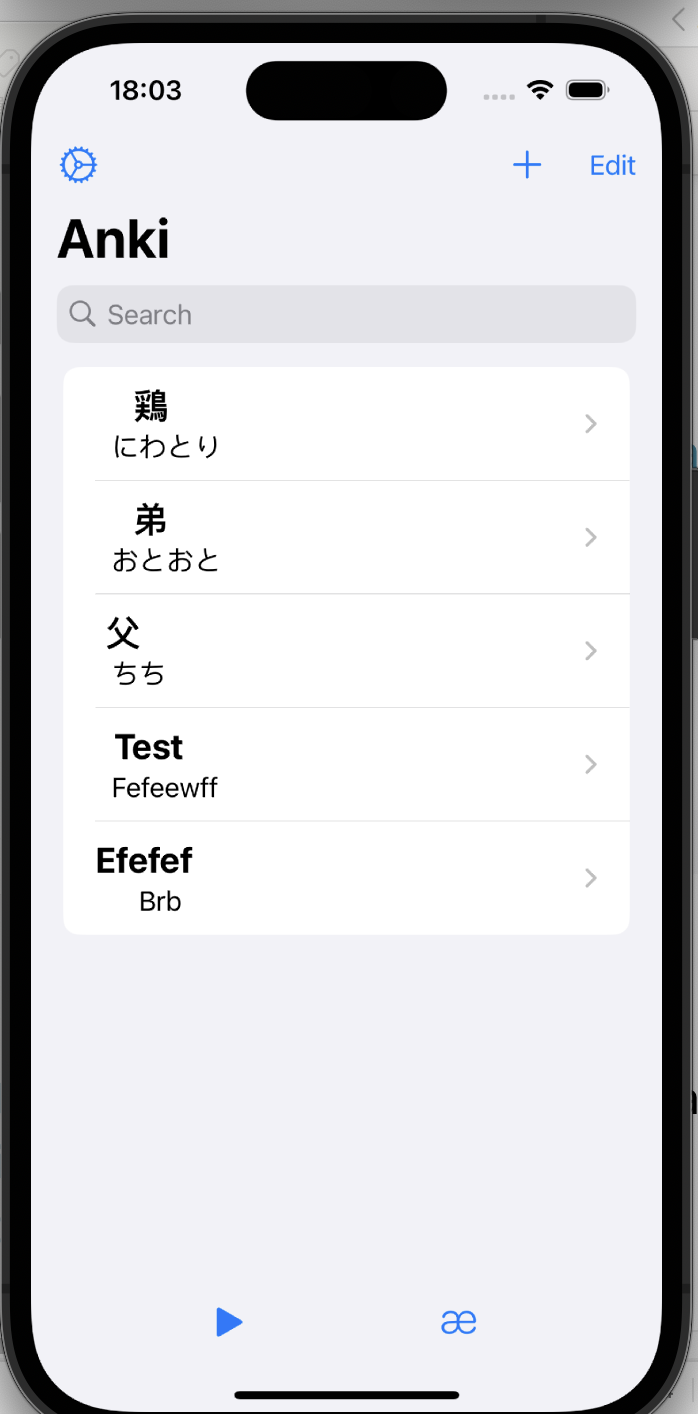
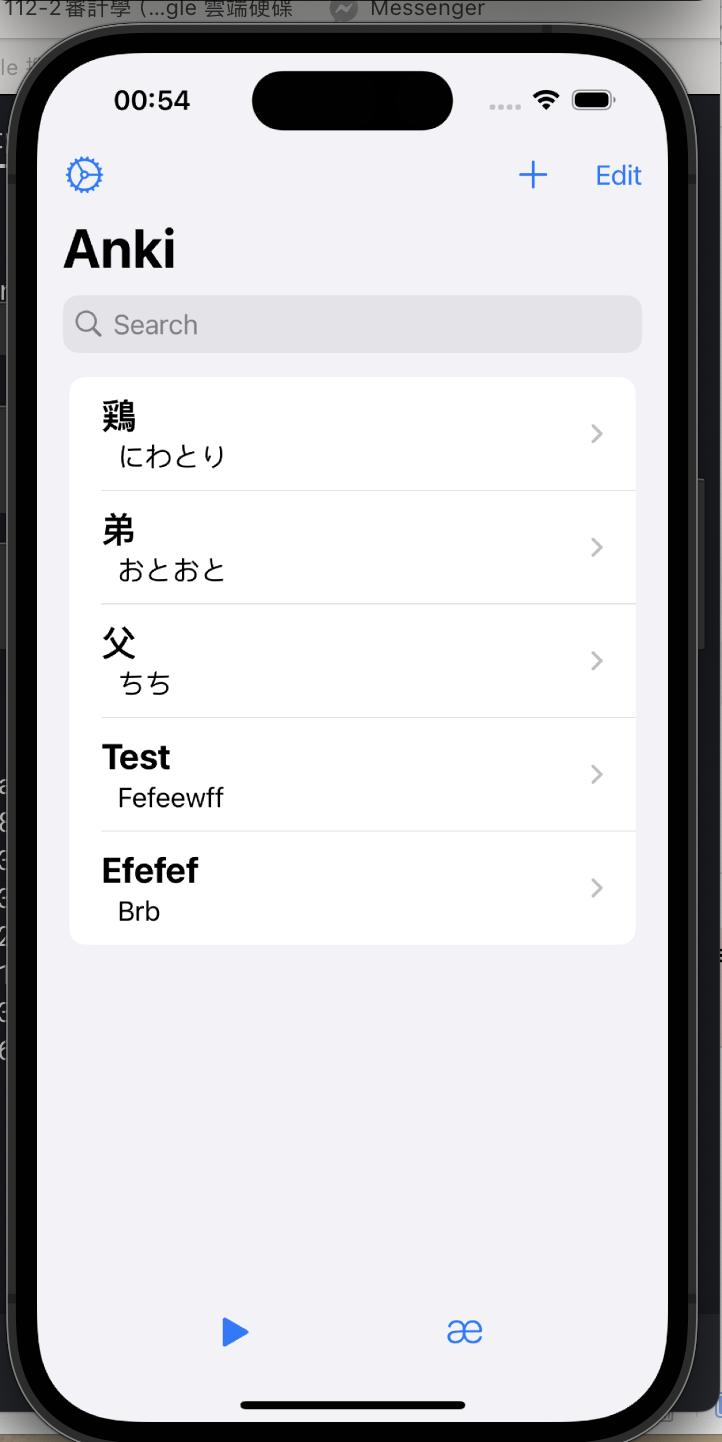
// ContentView align label of each item

diff --git a/Anki/View/MainPage/ContentView.swift b/Anki/View/MainPage/ContentView.swift
@@ -20,14 +20,14 @@ struct ContentView: View {
                     NavigationLink {
                         EditItemView(item: item)
                     } label: {
-                        VStack {
+						VStack(alignment: .leading) {
                             Text(item.front!)
                                 .font(.title2)
                                 .fontWeight(.bold)
                             Text("\(item.back!)")
                                 .offset(x: 10)
                                 .font(.body)
-                        }
+						}
                     }
                 }
                 .onDelete(perform: viewModel.deleteItems)
